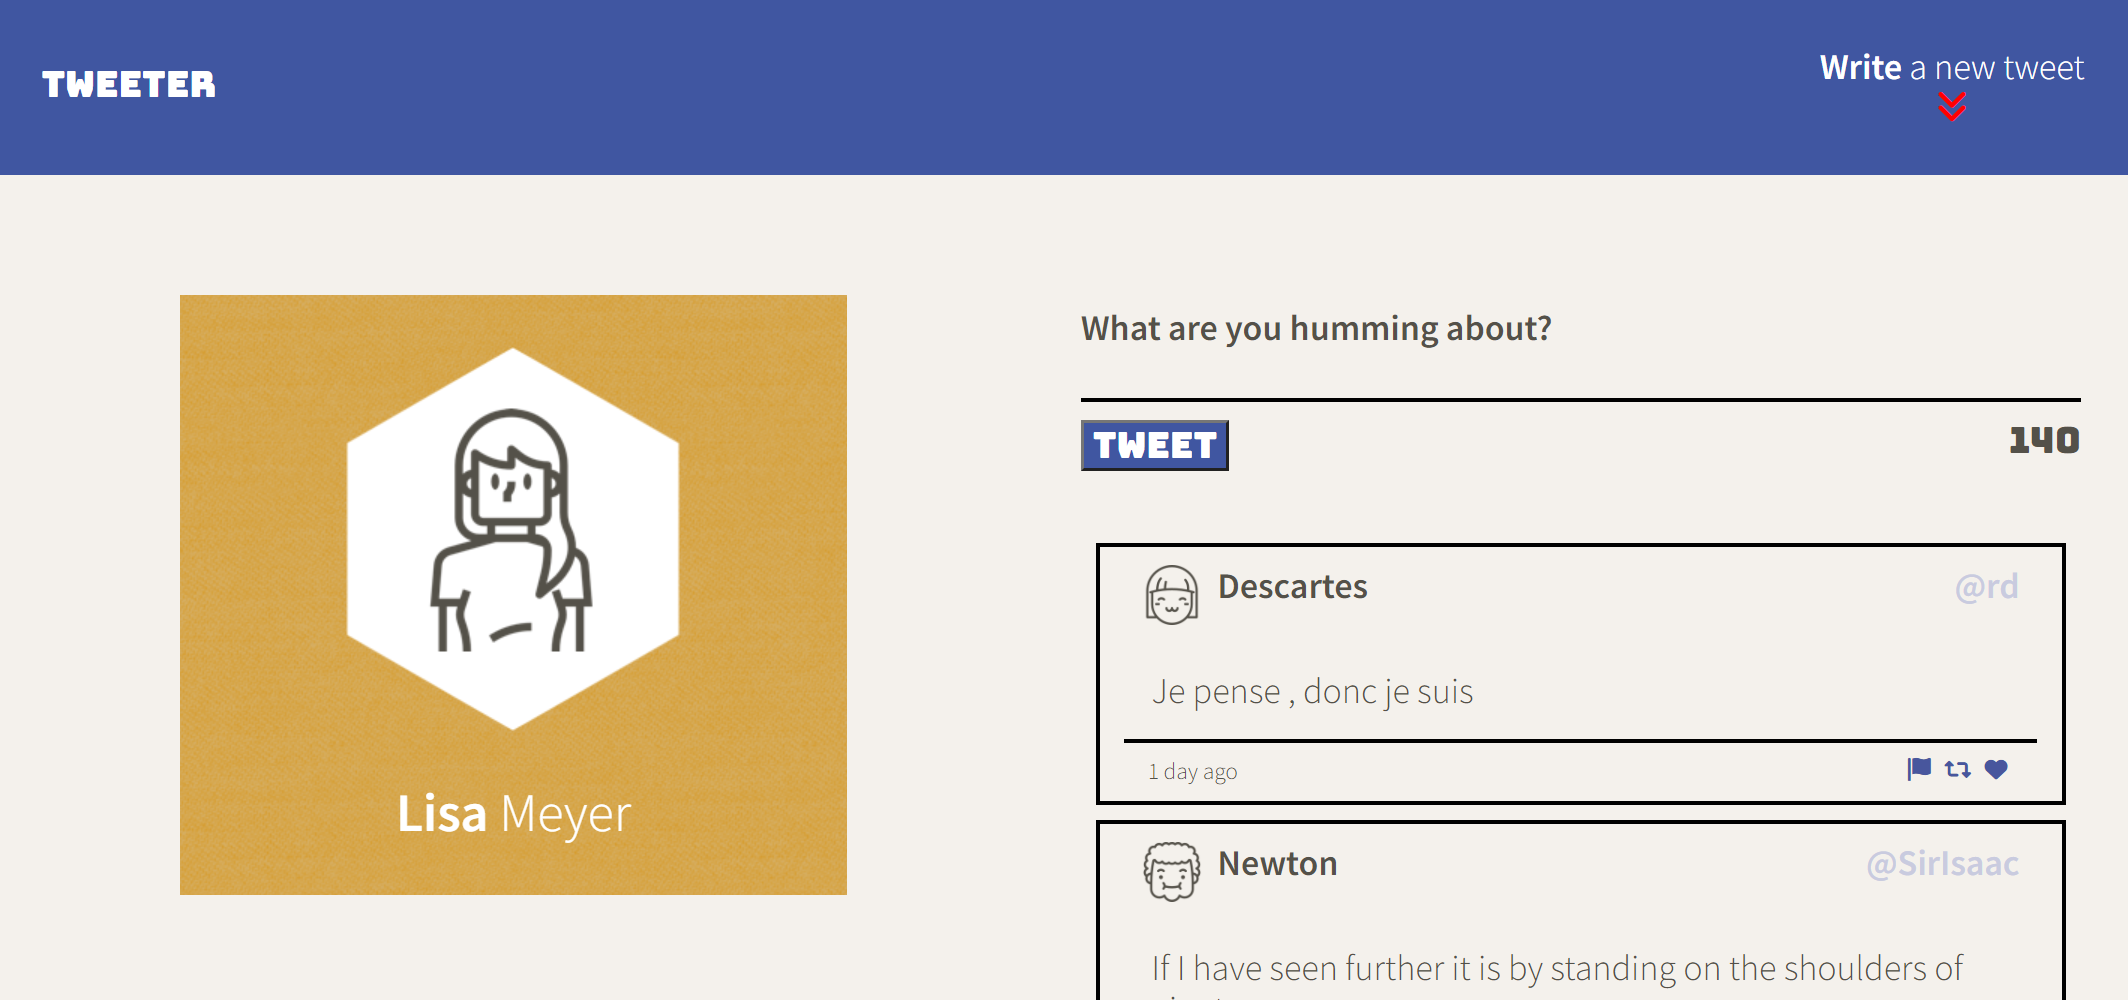
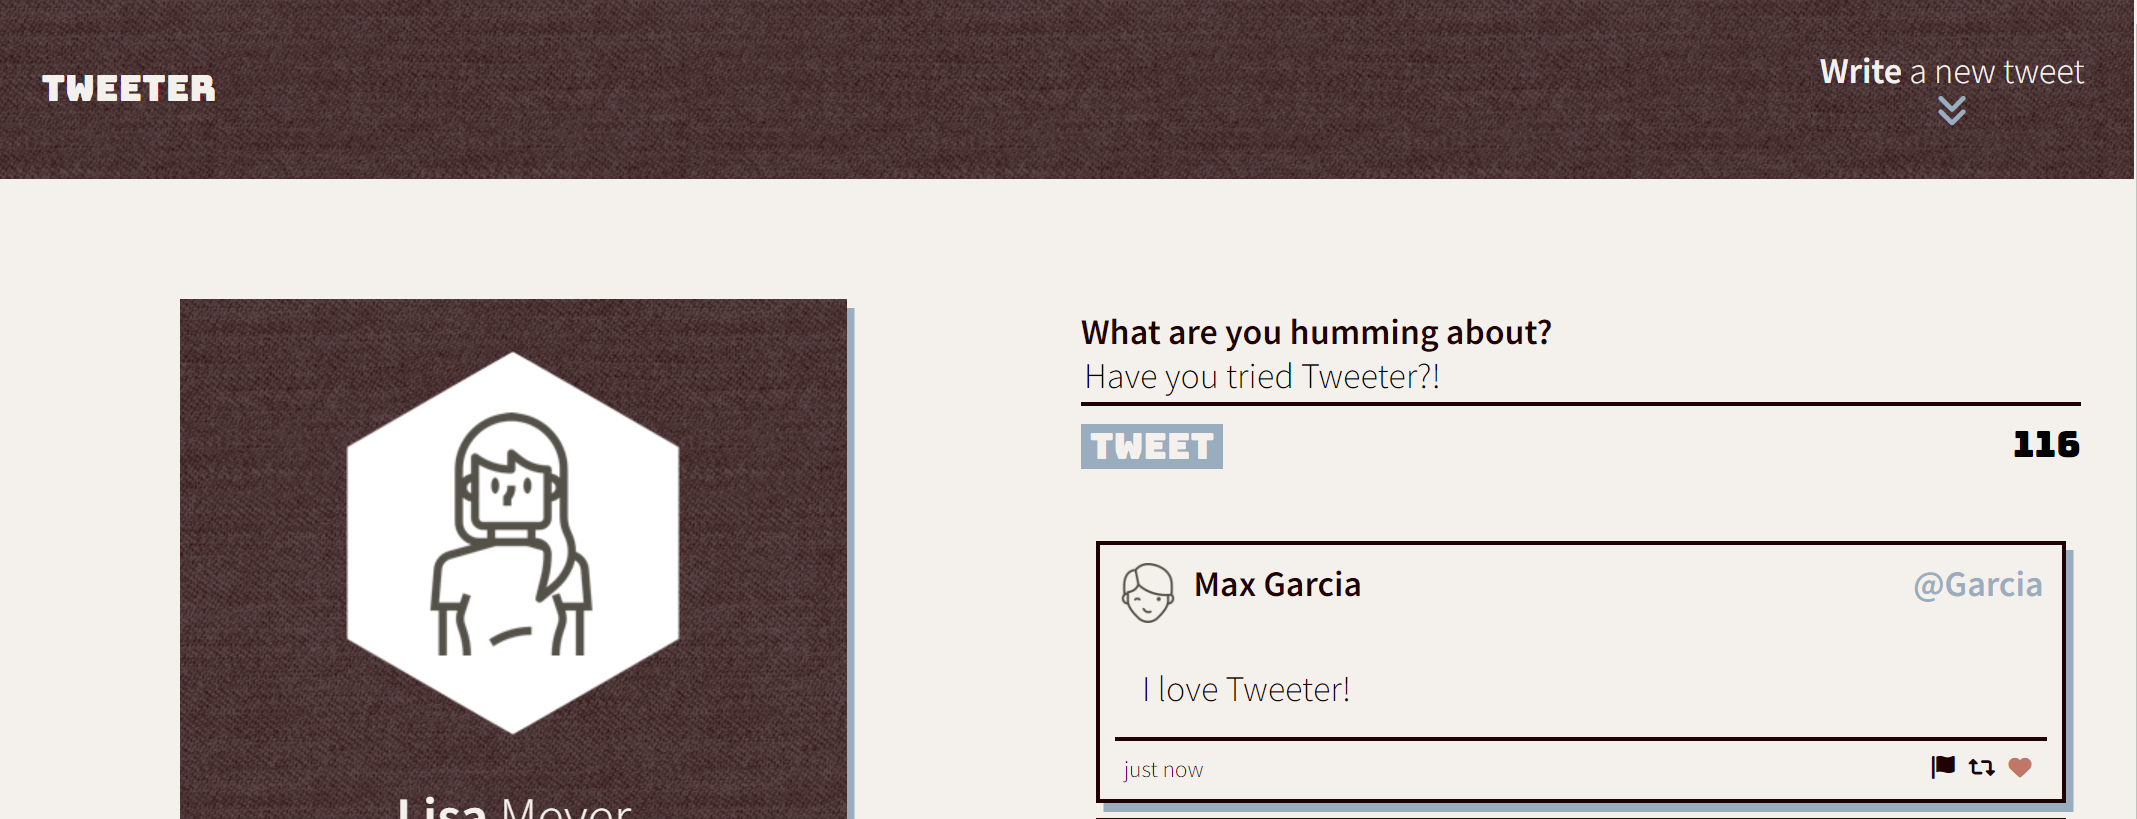
refactored js files for best practices

diff --git a/public/scripts/client.js b/public/scripts/client.js
@@ -1,50 +1,54 @@
 /*
- * Client-side JS logic goes here
- * jQuery is already loaded
- * Reminder: Use (and do all your DOM work in) jQuery's document ready function
- */
+* Submits new tweets.
+*/
 
-// prevents cross-site scripting
-const escape = function(str) {
-  let div = document.createElement("div");
-  div.appendChild(document.createTextNode(str));
-  return div.innerHTML;
-};
-
-//prepends tweet to the tweets container
-const renderTweets = (tweets) => {
-  for (let tweet of tweets) {
-    $('.tweet-container').prepend(createTweetElement(tweet));
-  }
-};
-
-// generates HTML for new tweet to be rendered
-const createTweetElement = (data) => {
-    
-  let $tweet = $(`
-  <article class="tweet">
-    <header class="tweet__header">
-      <div>
-        <img src="${data.user.avatars}"></img>
-        <h4 class="tweet--name">${data.user.name}</h4>
-      </div>
-      <h4 class="tweet--handle">${data.user.handle}</h4>
-    </header>
-    <p class="tweet--content">${escape(data.content.text)}</p>
-    <footer class="tweet__footer">
-      <output class="footer--date">${timeago.format(data.created_at)}</output>
-      <div class="footer__icons">
-        <i class="fa-solid fa-flag"></i>
-        <i class="fa-solid fa-retweet"></i>
-        <i class="fa-solid fa-heart"></i>
-      </div>
-    </footer>
-  </article>`);
-
-  return $tweet;
-};
-
-$(() => {
+(($) => {
+  $(() => {
+    loadTweets();
+    writeTweet();
+  });
+  
+  // prevents cross-site scripting
+  const escape = function(str) {
+    let div = document.createElement("div");
+    div.appendChild(document.createTextNode(str));
+    return div.innerHTML;
+  };
+  
+  //prepends tweet to the tweets container
+  const renderTweets = (tweets) => {
+    for (let tweet of tweets) {
+      $('.tweet-container').prepend(createTweetElement(tweet));
+    }
+  };
+  
+  // generates HTML for new tweet to be rendered
+  const createTweetElement = (data) => {
+      
+    let $tweet = $(`
+    <article class="tweet">
+      <header class="tweet__header">
+        <div>
+          <img src="${data.user.avatars}"></img>
+          <h4 class="tweet--name">${data.user.name}</h4>
+        </div>
+        <h4 class="tweet--handle">${data.user.handle}</h4>
+      </header>
+      <p class="tweet--content">${escape(data.content.text)}</p>
+      <footer class="tweet__footer">
+        <output class="footer--date">${timeago.format(data.created_at)}</output>
+        <div class="footer__icons">
+          <i class="fa-solid fa-flag"></i>
+          <i class="fa-solid fa-retweet"></i>
+          <i class="fa-solid fa-heart"></i>
+        </div>
+      </footer>
+    </article>`);
+  
+    return $tweet;
+  };
+  
+  // displays tweets from database to tweets container
   const loadTweets = () => {
     $.get('/tweets').then(tweets => {
       console.log('tweets: ', tweets);
@@ -52,28 +56,28 @@ $(() => {
     });
   };
 
-  loadTweets();
-  
-  // event listener
-  $('.new-tweet--form').submit(function(e) {
-    e.preventDefault();
-    const tweet = $('#tweet-text');
-    const query = $(this).serialize();
-    tweet.on('input', () => $('#error').slideUp('slow'));
-    
-    if (!tweet.val().trim().length) {
-      $('#error').html('⛔ Nothing to say? ⛔').slideDown('slow');
-    } else if (!tweet.val().length) {
-      $('#error').html('⛔ Tweet too short! ⛔').slideDown('slow');
-    } else if (tweet.val().length > 140) {
-      $('#error').html('⛔ Tweet too long! Keep it under 140! ⛔').slideDown('slow');
-    } else {
-      $.post('/tweets', query).then(() => {
-        $('.tweet-container').empty();
-        loadTweets();
-        $('.new-tweet--form').trigger('reset');
-        $('.counter').html('140');
-      });
-    }
-  });
-});
+  // adds new tweets to database to be displayed on page
+  const writeTweet = () => {
+    $('.new-tweet--form').submit(function(e) {
+      e.preventDefault();
+
+      const tweet = $('#tweet-text');
+      const query = $(this).serialize();
+
+      tweet.on('input', () => $('#error').slideUp('slow'));
+      
+      if (!tweet.val().trim().length) {
+        $('#error').text('⛔ Don\'t be shy, write that tweet! ⛔').slideDown('slow');
+      } else if (tweet.val().length > 140) {
+        $('#error').text('⛔ Someone\'s gotta a lot to say, eh? Keep it under 140! ⛔').slideDown('slow');
+      } else {
+        $.post('/tweets', query).then(() => {
+          $('.tweet-container').empty();
+          loadTweets();
+          $('.new-tweet--form').trigger('reset');
+          $('.counter').text('140');
+        });
+      }
+    });
+  };
+})(jQuery);

diff --git a/public/scripts/composer-char-counter.js b/public/scripts/composer-char-counter.js
@@ -1,15 +1,23 @@
-$(() => {
-  $('#tweet-text').on('input', function(e) {
-    
-    let counter = 140;
-    let len = $(this).val().length;
-    let remainder = counter - len;
-    const inputCounter = $(this).next().children()[1];
-    $(inputCounter).text(remainder);
-    if (remainder < 0) {
-      $(inputCounter).css('color', 'red');
-    } else {
-      $(inputCounter).css('color', 'black');
-    }
+/**
+ * Displays remaining character counter.
+ */
+(($) => {
+  $(() => {
+    charCounter();
   });
-});
+  
+  const charCounter = () => {
+    $('#tweet-text').on('input', function(e) {
+      let counter = 140;
+      let len = $(this).val().length;
+      let remainder = counter - len;
+      const inputCounter = $(this).next().children()[1];
+      $(inputCounter).text(remainder);
+      if (remainder < 0) {
+        $(inputCounter).css('color', 'var(--red)');
+      } else {
+        $(inputCounter).css('color', 'var(--darkred)');
+      }
+    });
+  }
+})(jQuery);

diff --git a/public/index.html b/public/index.html
@@ -64,8 +64,8 @@
       <section class="new-tweet">
         <p id="error"></p>
         <form class="new-tweet--form" method="POST" action="/tweets">
-          <label for="tweet-text">What are you humming about?</label>
-          <textarea name="text" id="tweet-text"></textarea>
+          <label for="tweet-text" class="hidden">What are you humming about?</label>
+          <textarea name="text" id="tweet-text" placeholder="What are you humming about?"></textarea>
           <div>
             <button type="submit" class="new-tweet__button">Tweet</button>
             <output name="counter" class="counter" for="tweet-text">140</output>

diff --git a/public/styles/layout.css b/public/styles/layout.css
@@ -127,6 +127,9 @@ body {
   text-align: center;
   color: var(--darkred);
 }
+.hidden {
+  display: none;
+}
 
 /*****************
  * Media Queries *
